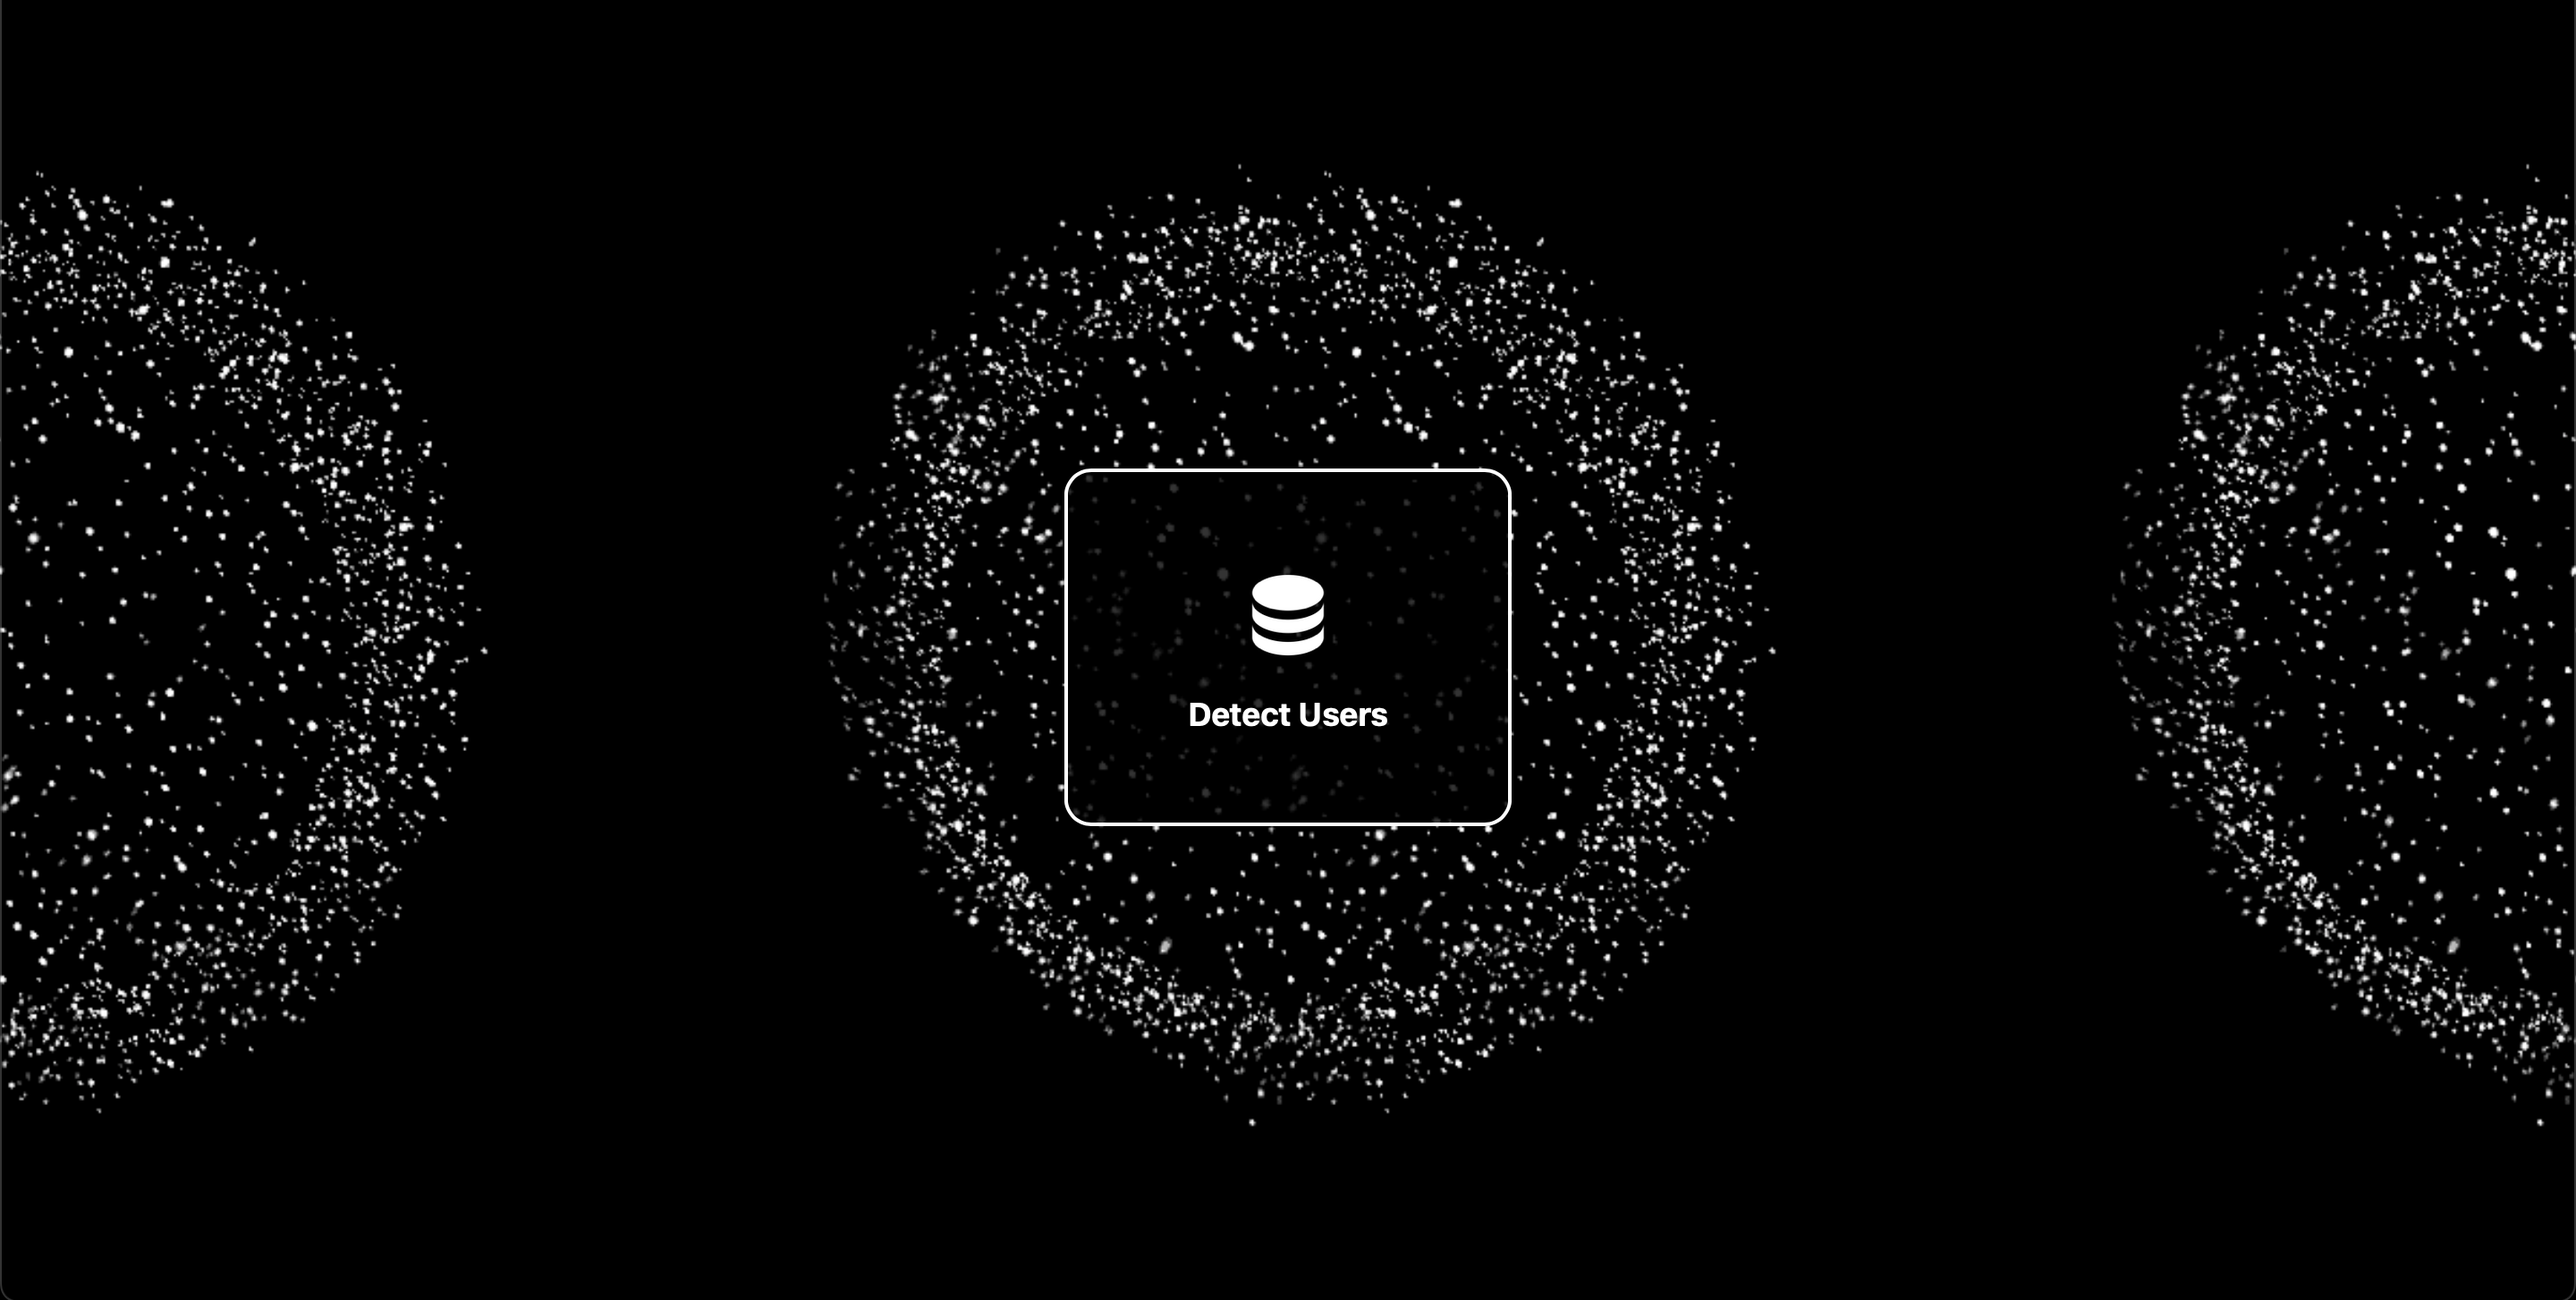
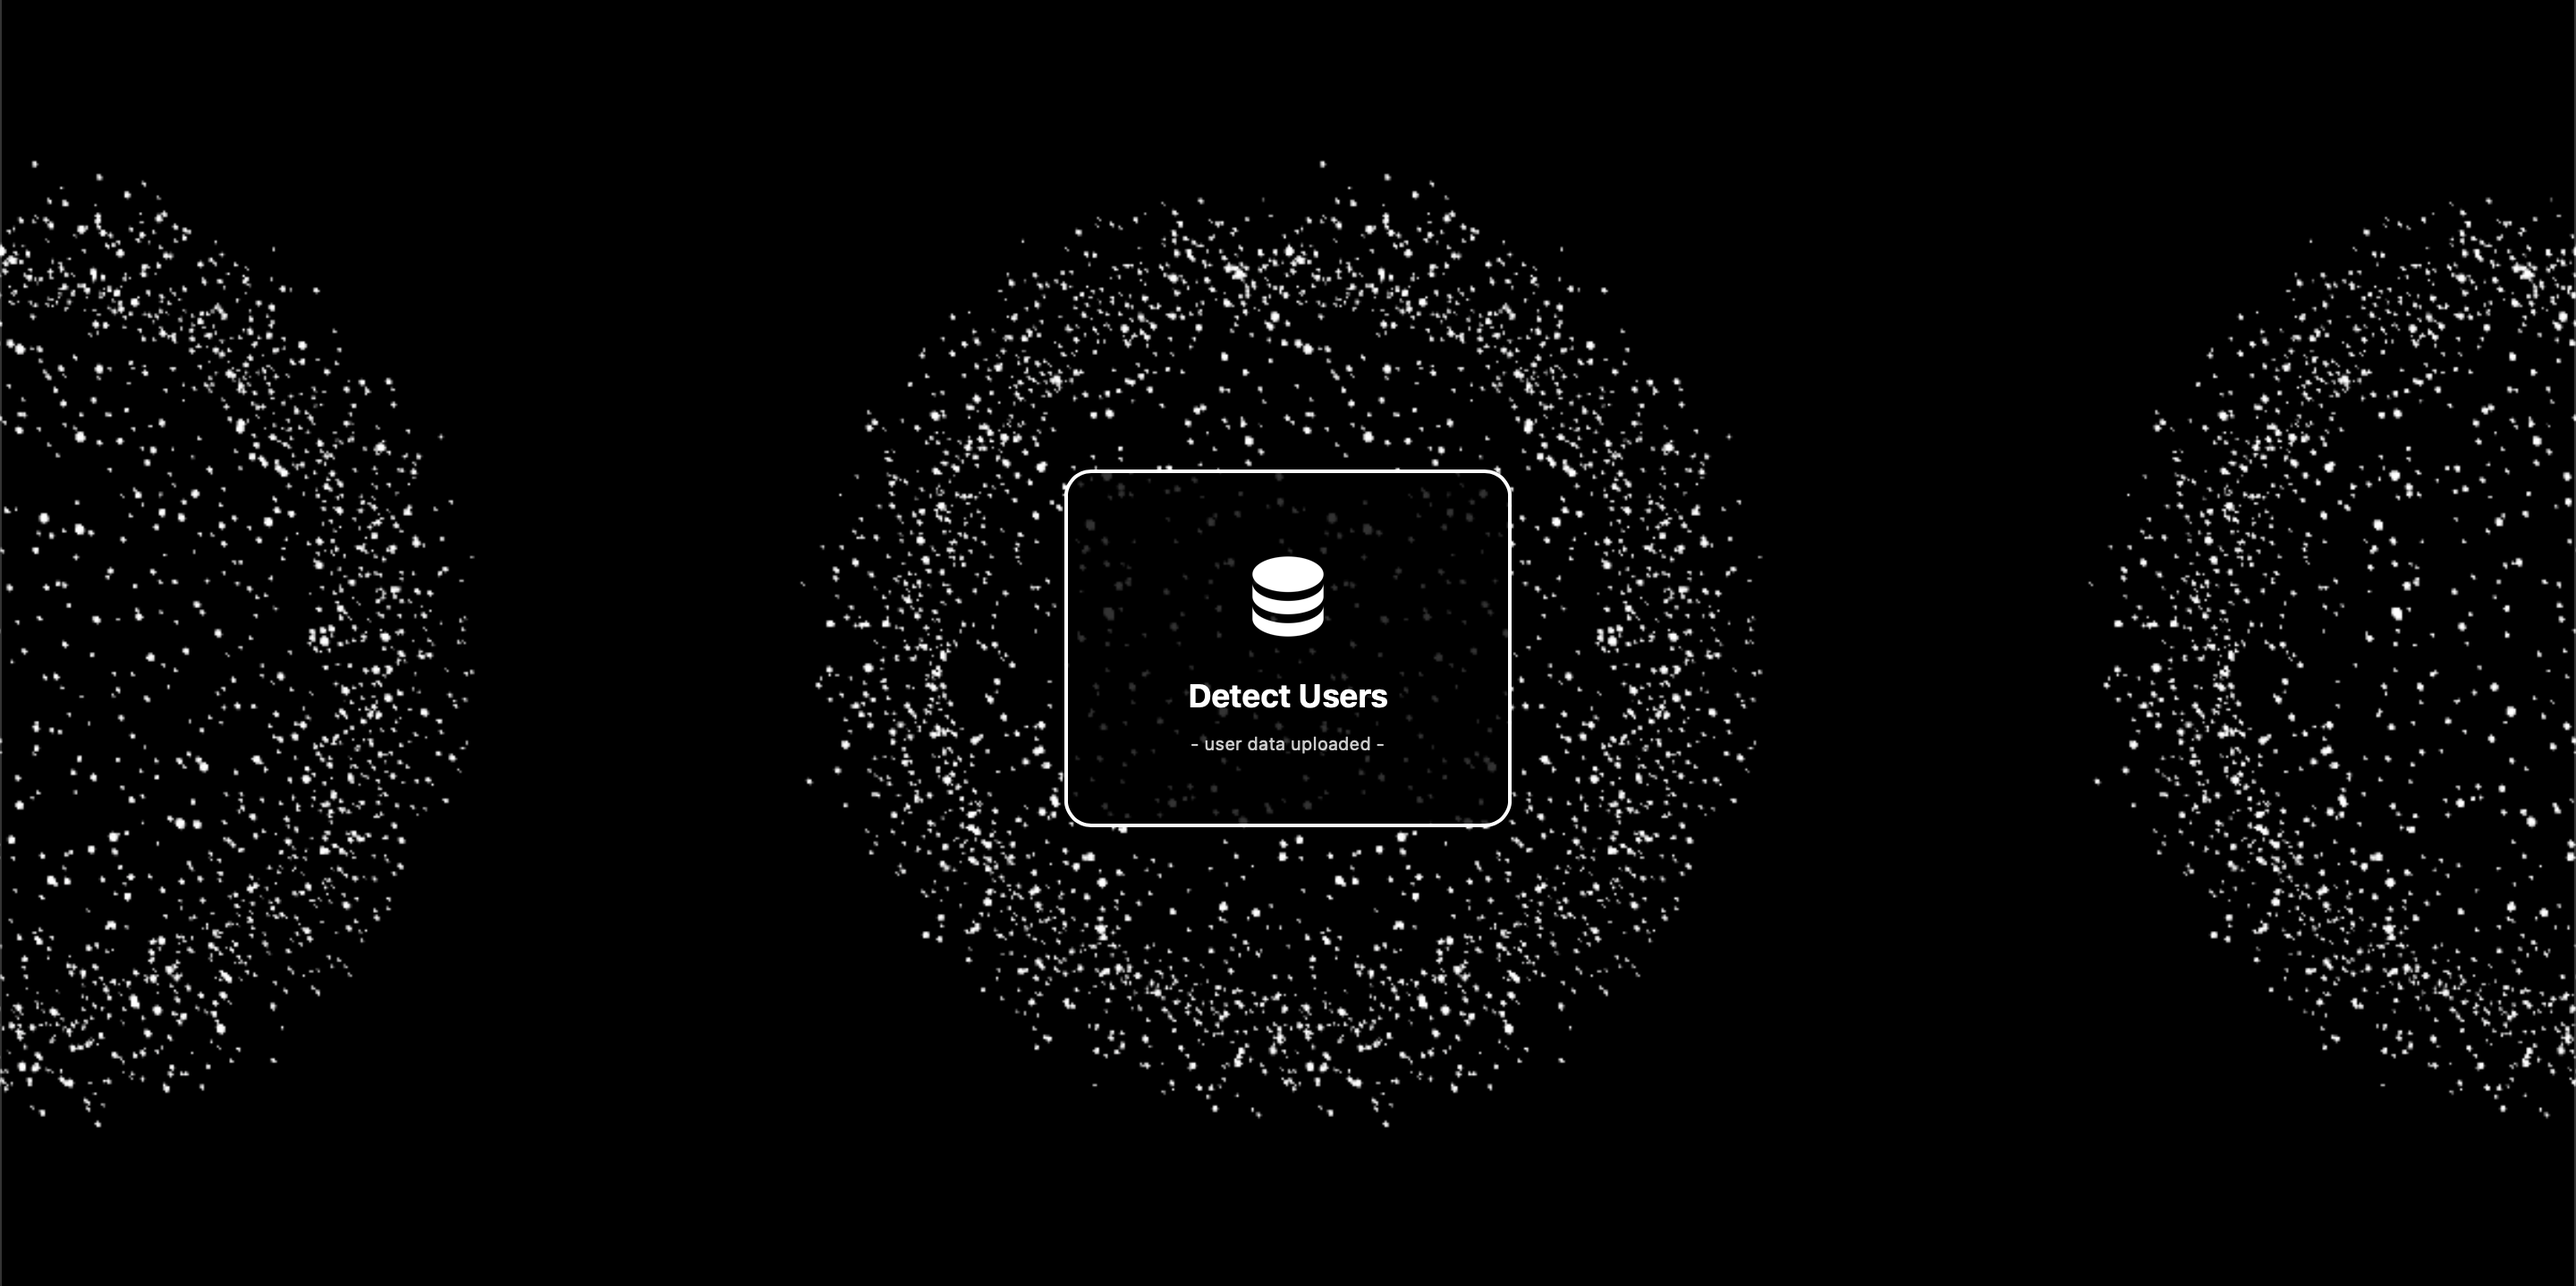
stuff

Changed region(s): [[0.3125, 0.153, 0.6875, 0.8567], [0.0, 0.153, 0.1875, 0.8567], [0.8125, 0.153, 1.0, 0.8567]]

diff --git a/App/app.py b/App/app.py
@@ -34,7 +34,8 @@ app.layout = html.Div(id='main-container', style={
 }, children=[
     html.Button([
                 html.Img(src=app.get_asset_url('database_icon_135716.png'), style={'width': '60px', 'height': '60px'}),
-                html.Div('Detect Users', className='button-text')
+                html.Div('Detect Users', className='button-text'),
+                html.Div('- user data uploaded -', style={'color': 'rgba(255, 255, 255, 0.8)', 'fontSize': '10px', 'marginTop': '10px'}),
     ], id='analyze-data-button', className='button'),
     html.Div(id='new-content', style={'display': 'none'})
 ])
